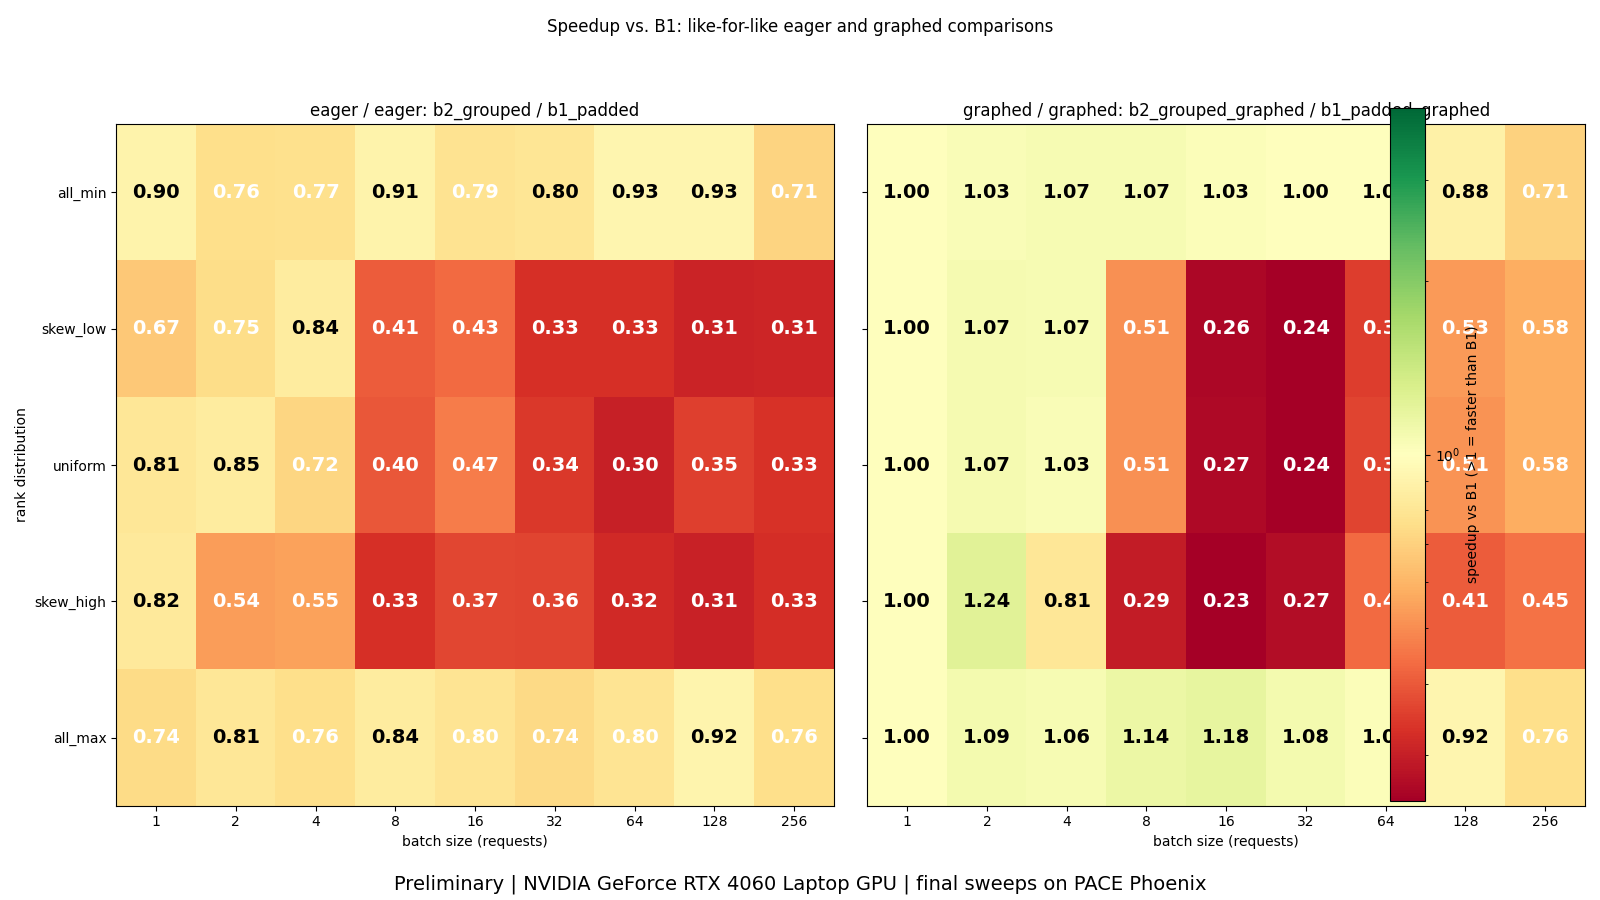
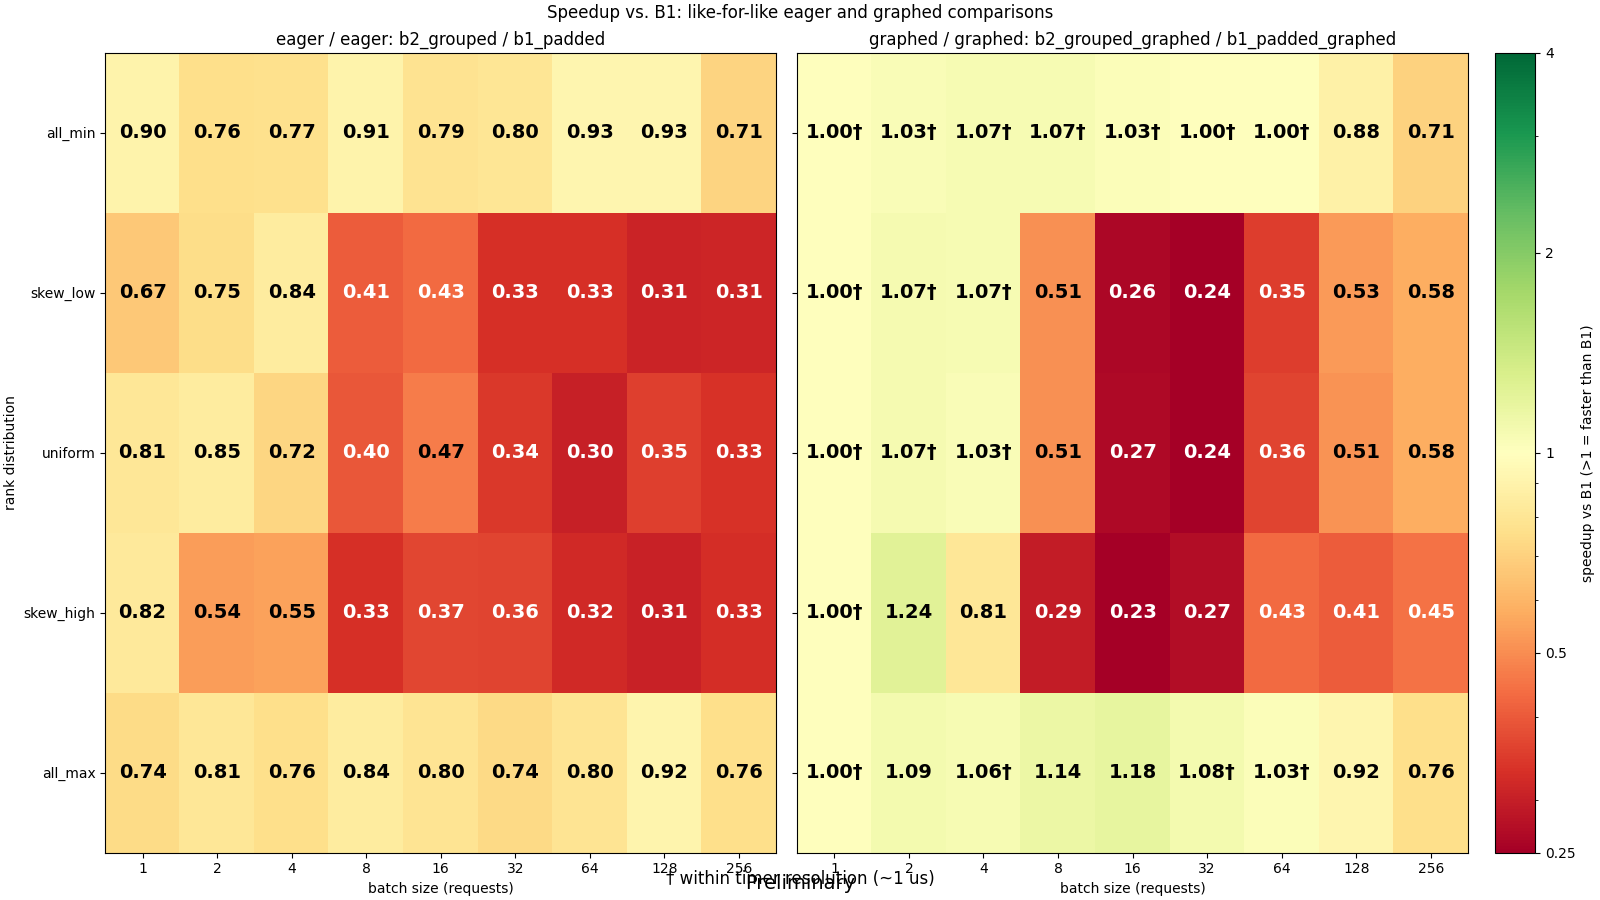
refresh laptop figures and summary

diff --git a/results/summary.md b/results/summary.md
@@ -4,25 +4,28 @@ GPU: NVIDIA GeForce RTX 4060 Laptop GPU. All figures state that this is a laptop
 
 ## Decode summary (uniform, h=4096, r_max=64)
 
-| Batch | B1 padded | B1g padded | B2 grouped | B2g grouped | B2/B1 | B2g/B1g |
+| Batch | B1 padded us | B1g padded us | B2 grouped us | B2g grouped us | B1/B2 speedup | B1g/B2g speedup |
 |---:|---:|---:|---:|---:|---:|---:|
-| 1 | 246.272 | 16.384 | 305.472 | 16.384 | 1.240 | 1.000 |
-| 8 | 243.712 | 35.840 | 612.048 | 70.656 | 2.511 | 1.971 |
-| 64 | 244.832 | 33.792 | 813.696 | 93.184 | 3.323 | 2.758 |
-| 256 | 278.080 | 50.176 | 831.168 | 87.040 | 2.989 | 1.735 |
+| 1 | 246.272 | 16.384 | 305.472 | 16.384 | 0.806 | 1.000 |
+| 8 | 243.712 | 35.840 | 612.048 | 70.656 | 0.398 | 0.507 |
+| 64 | 244.832 | 33.792 | 813.696 | 93.184 | 0.301 | 0.363 |
+| 256 | 278.080 | 50.176 | 831.168 | 87.040 | 0.335 | 0.576 |
 
 ## Figure takeaways
 
 - **latency_vs_batch:** Uniform decode latency was measured for all requested batch sizes, with repeat ranges shown as error bars; B2 and B2g share one grouped roofline line.
 - **rank_sensitivity:** For B1, the measured all_min/all_max medians were batch 1: all_min 269.952 us, all_max 233.024 us; batch 32: all_min 252.960 us, all_max 233.472 us; batch 256: all_min 242.656 us, all_max 260.096 us, so these data do not show a large rank-distribution reduction in padded latency.
-- **speedup_vs_b1:** 68 of 90 like-for-like grouped/B1 cells were slower than their matching B1 variant.
-- **launch_overhead:** Profiler measurements show wall time substantially exceeds summed GPU kernel time for eager B1/B2, while graphed variants narrow that gap; grouping and max-rank work are outside the timed graphed calls.
+- **speedup_vs_b1:** 68 of 90 like-for-like grouped/B1 cells were slower than their matching B1 variant; speedup is always B1 time / implementation time.
+- **launch_overhead:** Eager variants are host-bound (wall time is much larger than kernel sum), while graphed B2 is kernel-bound at batches 32 and 256 (kernel sum is roughly 70-75% of wall time); grouping and max-rank work are outside timed graphed calls.
 - **roofline_gap:** The two panels aggregate rank distributions at each workload x position with median lines and min-max bands; values below 1 remain unresolved because the analytic model was not changed.
 - **graphed variants:** B1g captures the batch max rank, and B2g captures rank grouping, outside the timed replay; this is a best-case launch-overhead comparison.
+- **timer resolution:** Graphed timings are quantised at about 1.024 us; differences under about 2 us are not meaningful, and min == max for graphed rows reflects quantisation rather than zero noise.
 
 ## Profiling and unresolved roofline observations
 
 - The machine uses the Windows WDDM driver model.
+- CUDA properties report a 32 MiB L2 cache. The grouped intermediate bytes counted by the model are 8.4 MiB for decode batch 256, 16.8 MiB for the second decode comparison, and 67.2 MiB for prefill 4x512; the last exceeds L2, so L2 residency alone cannot explain every below-bound point. The model was not changed.
+- Nsight Compute (`ncu`) was not available on this Windows machine, so DRAM byte counters were not collected.
 - Below-roofline B2g rows imply 261-349 GB/s versus the 256 GB/s model entry and 226.99 GB/s measured copy bandwidth; this may reflect optimistic byte accounting and/or cache effects despite L2 flush, and is not treated as proof of a physical bandwidth result.
 
 ### Profiler rows
@@ -41,6 +44,23 @@ GPU: NVIDIA GeForce RTX 4060 Laptop GPU. All figures state that this is a laptop
 | b1_padded_graphed | 256 | 67.456 | 26.241 | 7 |
 | b2_grouped | 256 | 2081.568 | 107.936 | 40 |
 | b2_grouped_graphed | 256 | 105.664 | 67.840 | 20 |
+
+### Profiler overhead and GPU-busy fraction
+
+| Implementation | Batch | Profiler overhead (profiled wall / sweep wall) | GPU-busy fraction (kernel / sweep wall) |
+|---|---:|---:|---:|
+| b1_padded | 1 | 1.173x | 0.054 |
+| b1_padded_graphed | 1 | 2.143x | 0.553 |
+| b2_grouped | 1 | 1.390x | 0.101 |
+| b2_grouped_graphed | 1 | 2.359x | 0.596 |
+| b1_padded | 32 | 1.447x | 0.069 |
+| b1_padded_graphed | 32 | 2.721x | 0.493 |
+| b2_grouped | 32 | 2.316x | 0.178 |
+| b2_grouped_graphed | 32 | 1.075x | 0.810 |
+| b1_padded | 256 | 2.721x | 0.107 |
+| b1_padded_graphed | 256 | 1.344x | 0.523 |
+| b2_grouped | 256 | 2.504x | 0.130 |
+| b2_grouped_graphed | 256 | 1.214x | 0.779 |
 
 ### Below-roofline rows
 
@@ -64,6 +84,22 @@ GPU: NVIDIA GeForce RTX 4060 Laptop GPU. All figures state that this is a laptop
 | prefill | b2_grouped_graphed | 4 | 2048 | uniform | 392.192 | 459.520 | 299.9 |
 | prefill | b2_grouped_graphed | 4 | 2048 | skew_low | 390.144 | 459.520 | 301.5 |
 | prefill | b2_grouped_graphed | 4 | 2048 | skew_high | 342.016 | 460.736 | 344.9 |
+
+### Batch maximum rank
+
+| Batch size | all_min | skew_low | uniform | skew_high | all_max |
+|---:|---:|---:|---:|---:|---:|
+| 1 | 8 | 8 | 8 | 64 | 64 |
+| 2 | 8 | 8 | 8 | 16 | 64 |
+| 4 | 8 | 8 | 8 | 16 | 64 |
+| 8 | 8 | 32 | 32 | 64 | 64 |
+| 16 | 8 | 32 | 32 | 64 | 64 |
+| 32 | 8 | 64 | 64 | 64 | 64 |
+| 64 | 8 | 64 | 64 | 64 | 64 |
+| 128 | 8 | 64 | 64 | 64 | 64 |
+| 256 | 8 | 64 | 64 | 64 | 64 |
+
+B1 pads to the batch maximum rank; with 8 or more requests, mixed-rank batches nearly always reach r_max in these sampled workloads.
 
 ## Noisy points (max/min > 1.3)
 - decode b1_padded requests=1 tokens=1 dist=all_min: 1.39x
